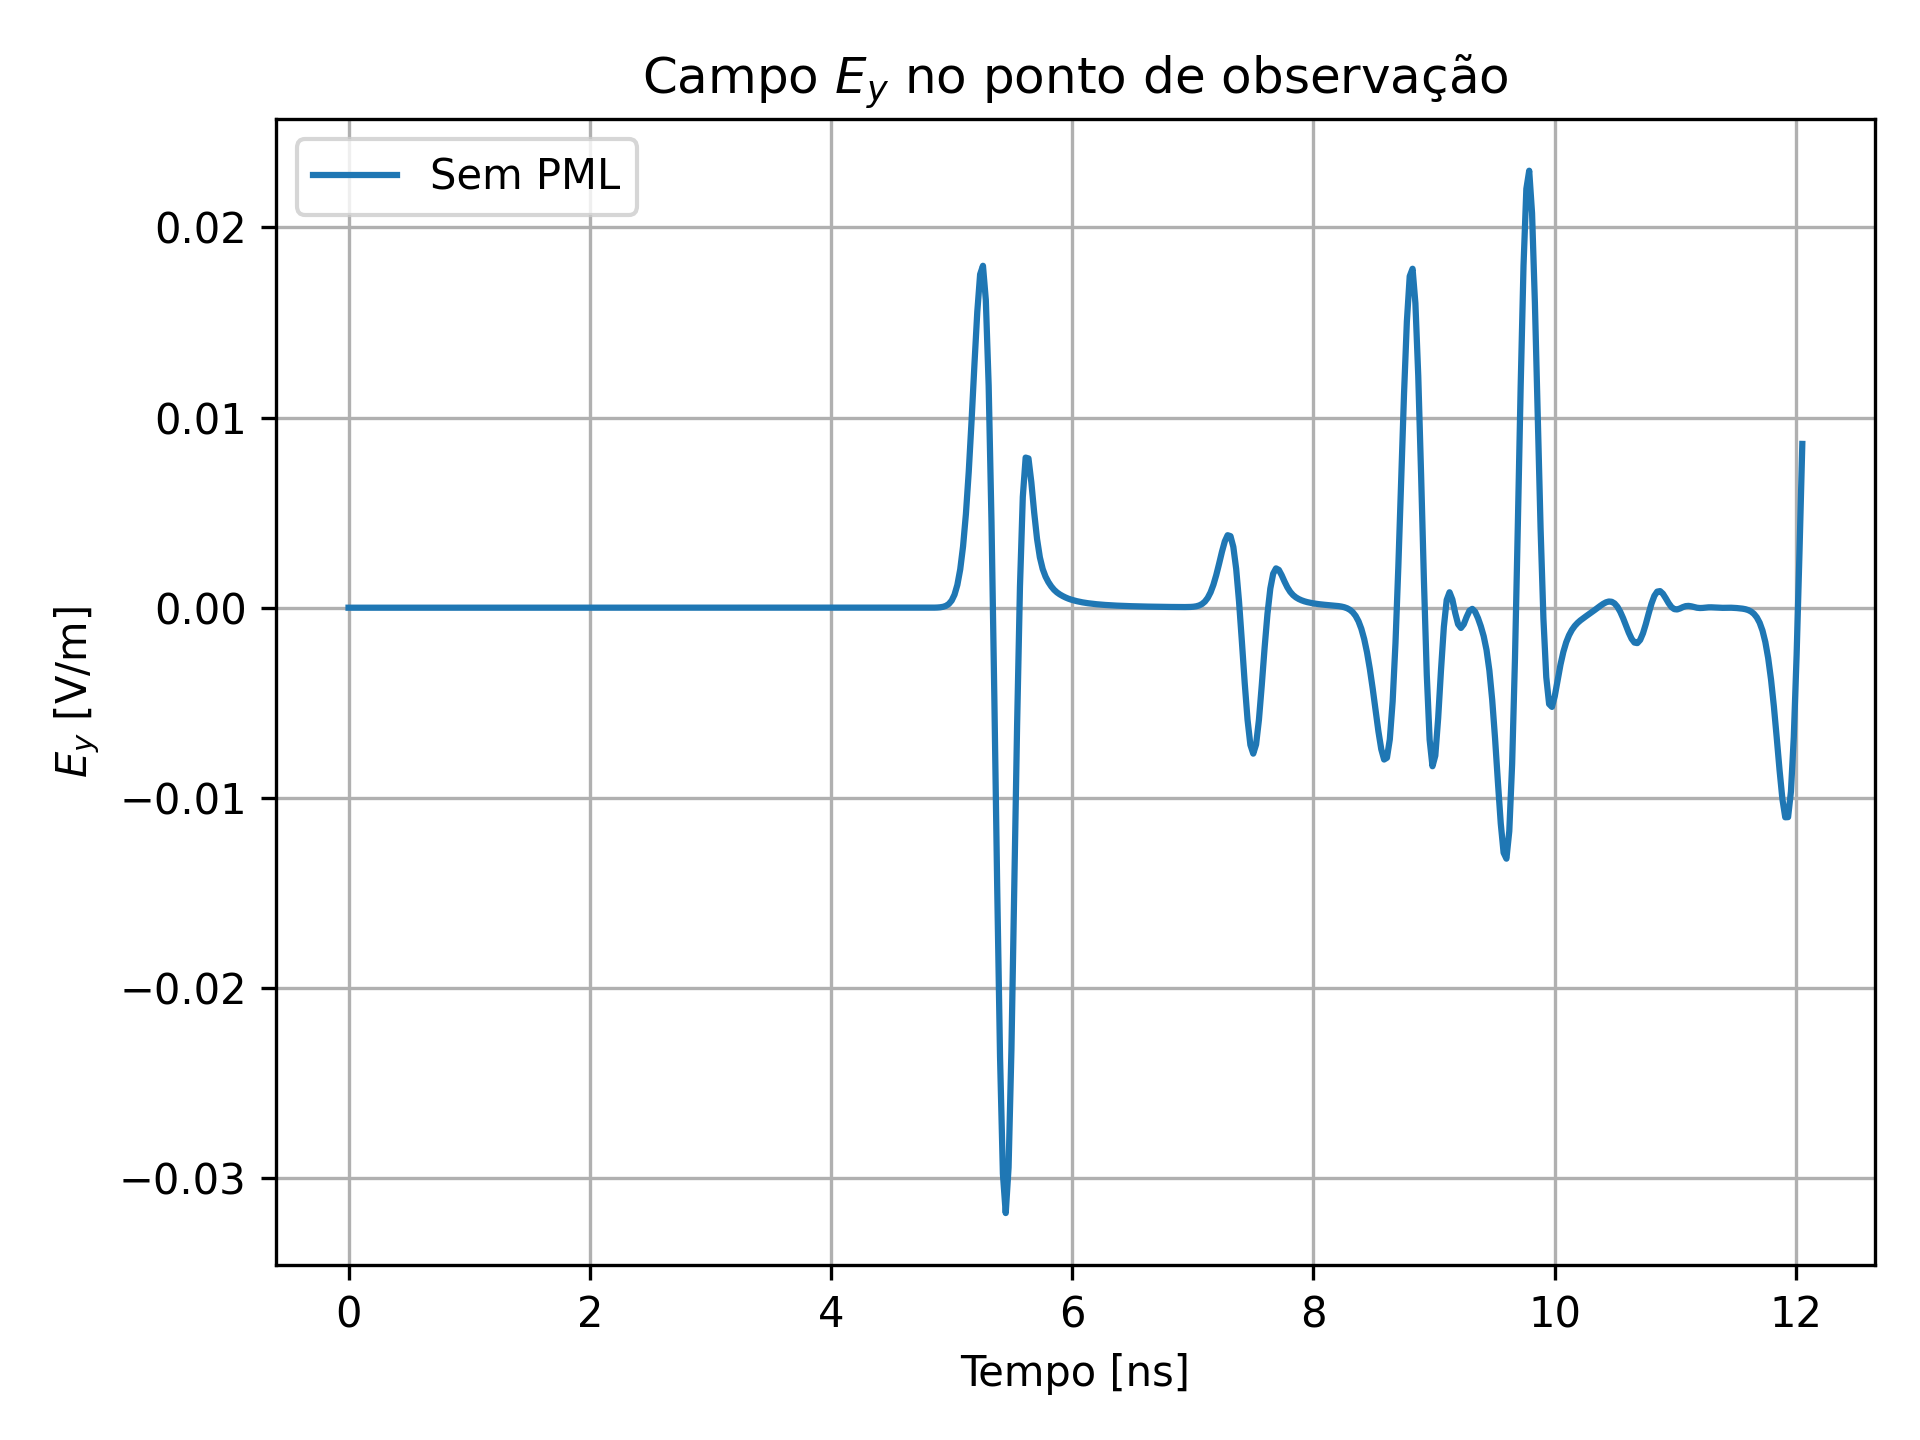
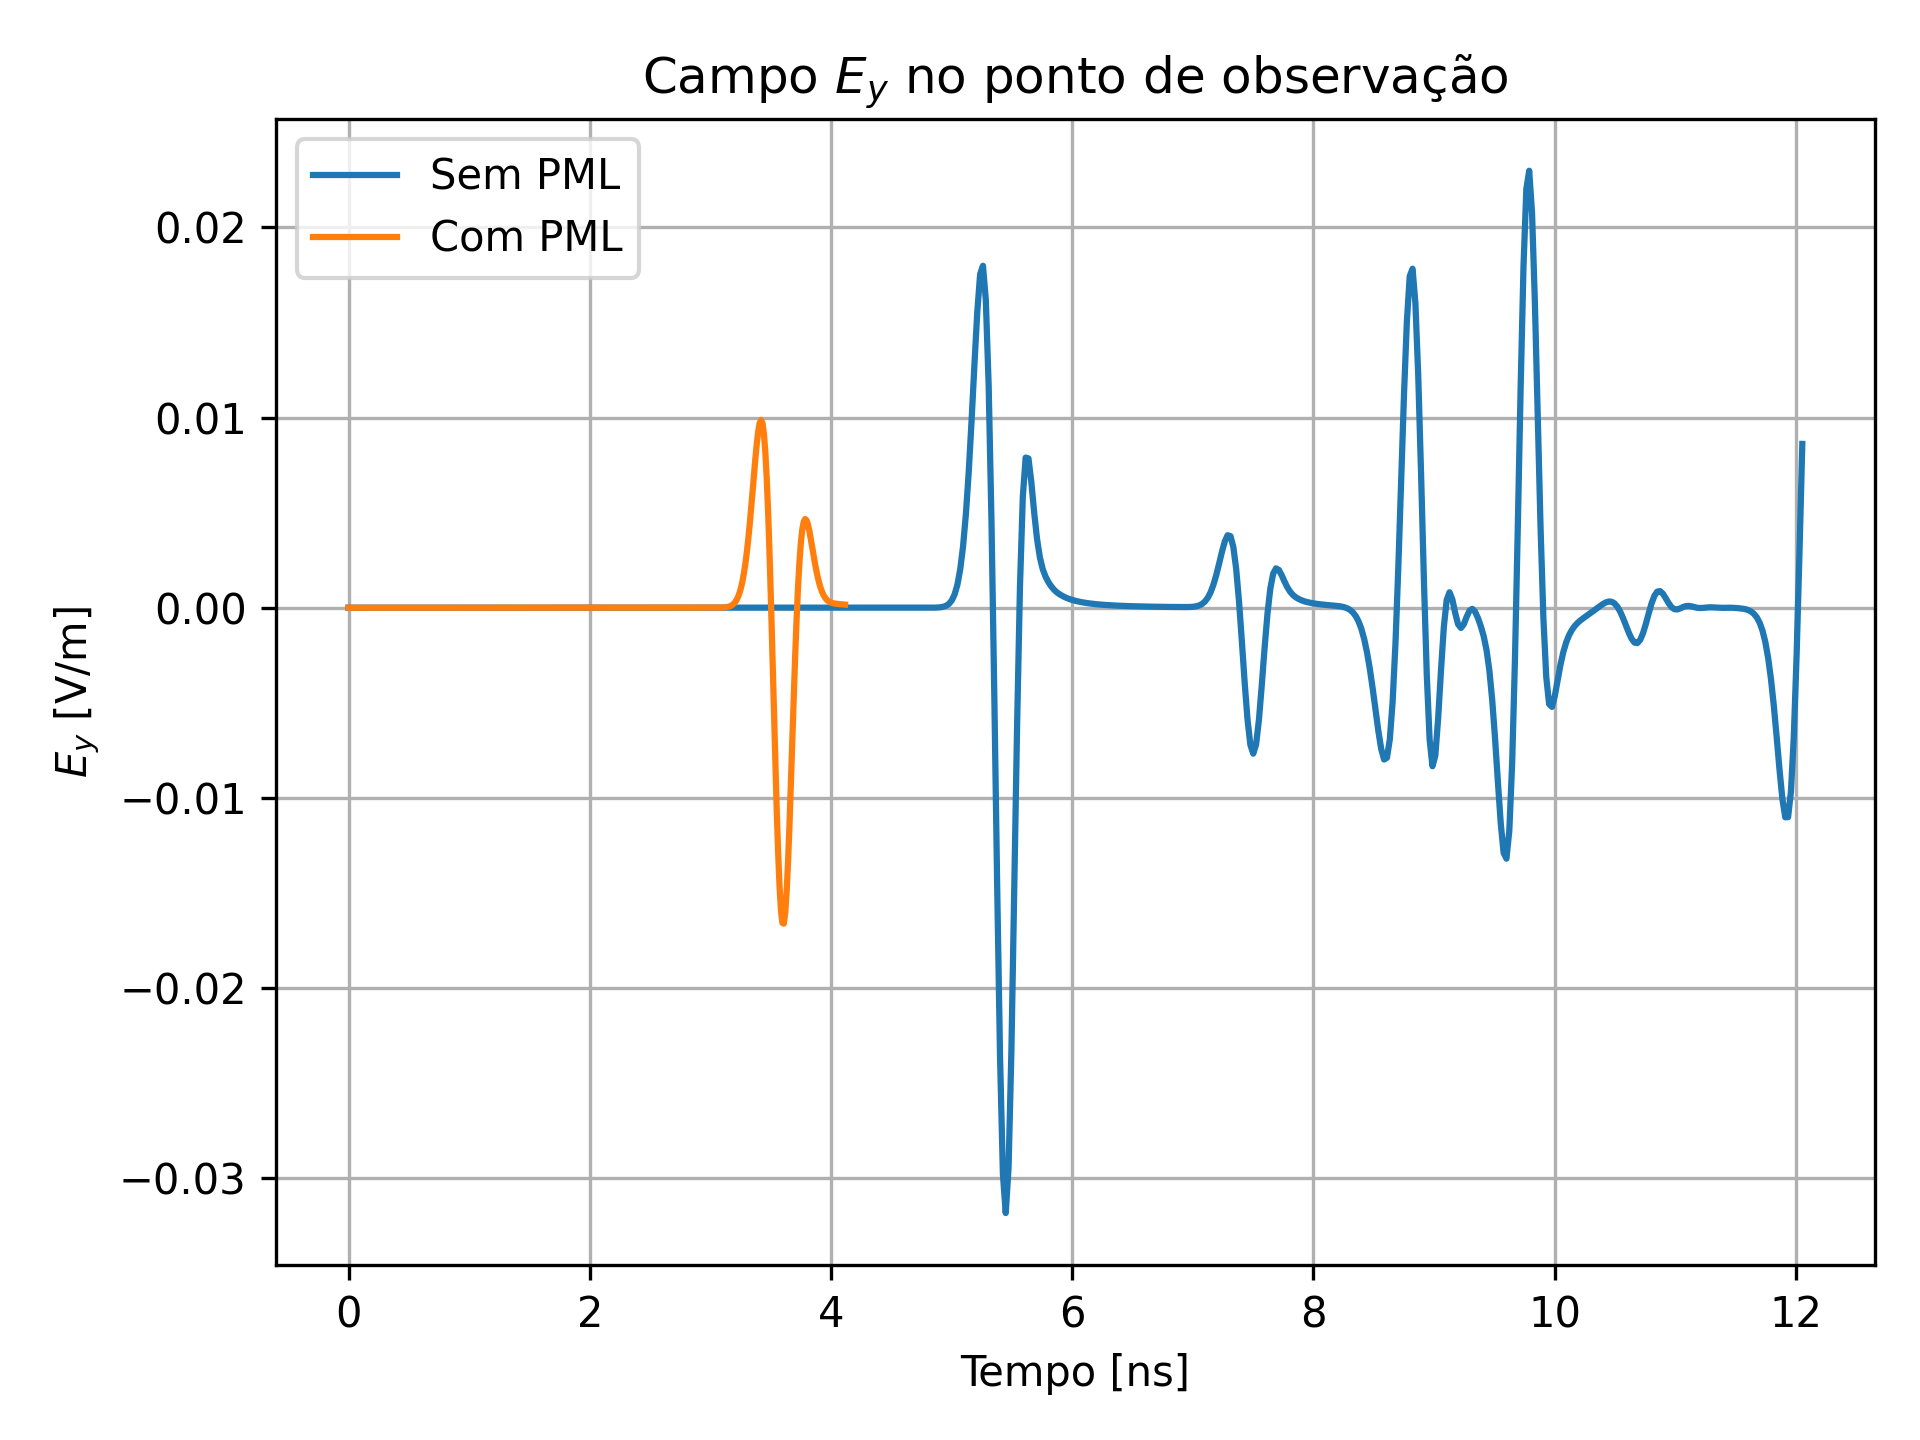
Teste 01.

Changed region(s): [[0.1875, 0.2812, 0.4375, 0.625], [0.1562, 0.125, 0.3438, 0.1875]]

diff --git a/Cap_03/src/fdtd2d_pml.cpp b/Cap_03/src/fdtd2d_pml.cpp
@@ -4,6 +4,7 @@
 #include <vector>
 #include <cmath>
 #include <fstream>
+#include <filesystem>
 #include "gaussder.cpp"
 
 const double c = 2.997925e8;
@@ -12,10 +13,15 @@ const double mu_0 = 4 * M_PI * 1e-7;
 const double eta_0 = std::sqrt(mu_0 / eps_0);
 
 void run_fdtd2d_pml_simulation() {
+
+    const std::string out_dir = PROJECT_OUT_DIR;
+    std::filesystem::create_directories(out_dir);
+
+
     int refine = 1;
     int N_x = refine * 200;
     int N_y = refine * 200;
-    int M = refine * 350;
+    int M = refine * 512;
     int L = N_x / 2;
     int d_cell = 10;
 
@@ -132,12 +138,12 @@ void run_fdtd2d_pml_simulation() {
         E_y_point1[m] = E_y[point1_x][point1_y];
     }
 
-    std::ofstream file("out/ey_point1_pml.csv");
+    std::ofstream file(out_dir + "/ey_point1_pml.csv");
     file << "tempo_ns,Ey_Vpm\n";
     for (int m = 0; m < M; ++m) {
         double time_ns = m * delta_t * 1e9;
         file << time_ns << "," << E_y_point1[m] << "\n";
     }
     file.close();
-    std::cout << "Simulação com PML finalizada. Resultados em out/ey_point1_pml.csv" << std::endl;
+    std::cout << "Simulação com PML finalizada. Resultados em " << out_dir << "/ey_point1_pml.csv" << std::endl;
 }

diff --git a/Cap_03/src/fdtd2d.cpp b/Cap_03/src/fdtd2d.cpp
@@ -20,7 +20,7 @@ void run_fdtd2d_simulation() {
 
     int refine = 1;
     int N_x = refine * 200;
-    int N_y = refine * 100;
+    int N_y = refine * 200;
     int M = refine * 512;
     int L = N_x / 2;
     int L1 = 20;

diff --git a/Cap_03/main_fdtd2d.cpp b/Cap_03/main_fdtd2d.cpp
@@ -3,10 +3,10 @@
 #include "include/fdtd2d_pml.hpp"
 
 int main() {
-#ifdef RUN_PML
+//#ifdef RUN_PML
     run_fdtd2d_pml_simulation();
-#else
+//#else
     run_fdtd2d_simulation();
-#endif
+//#endif
     return 0;
 }
